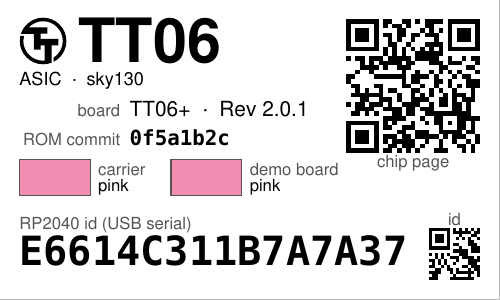
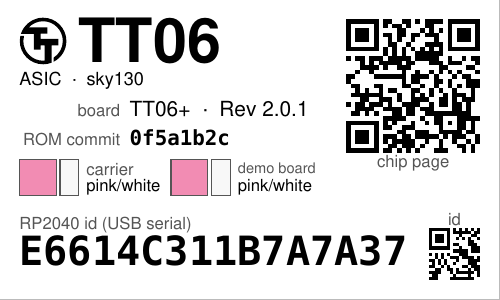
tinytapeout: soldermask and silkscreen swatches, and name who holds the port
Two changes, both from running the module against the real demo boards on
welland.fpgas.online.

The label now carries four colour boxes instead of two: for the chip
carrier and for the demo board, the soldermask in a wide box and the
silkscreen printed on it in a narrow one, in that proportion so no caption
is needed to say which is which, with both colours named beside. The
silkscreen colours were already in the table, taken from the spreadsheet,
but were not drawn. They matter: a TT05 kit is a yellow carrier lettered in
black on a black demo board lettered in white, and the old single box said
"yellow" and "black" as if that were the whole story. A colour that is not
recorded is an empty box struck through, not an "n/a" the eye reads as
type.

Seven of the eight rigs could not read their board: fpgas-tt.service, the
demo-board bridge, holds /dev/ttyACM0 on every rig it drives, so the port
opens EBUSY or the REPL's answers go to the bridge. The module said "not
MicroPython, or busy", which blames the board. It now looks for the process
that has the port open, through the same user's /proc entries, and says so:

  REPL: cannot open /dev/ttyACM0: [Errno 16] Device or resource busy;
  python3 (pid 11559) has the port open

which is the bridge's own main PID. The one rig whose bridge is idle read
its chip ROM in full: TT03p5 on a TT04/TT05 demo board, SDK 1.2.2.

Claude-Session: https://claude.ai/code/session_017ibyTnuBCnNY7ACKAkdRiT

Changed region(s): [[0.39, 0.51, 0.69, 0.66], [0.09, 0.51, 0.33, 0.66]]

diff --git a/src/rpi_hwid/labels.py b/src/rpi_hwid/labels.py
@@ -591,10 +591,9 @@ def draw_usb(lab, dev):
 
 
 def swatch(lab, x, y, w, h, colour):
-    """A colour-identification box: a keyline rectangle filled with the
-    board colour; empty with "n/a" inside when the colour is not recorded.
-    (The silkscreen colour is in the table but not drawn: a white line on
-    pink is too faint at print size to identify anything.)"""
+    """One colour-identification box: a keyline rectangle filled with the
+    colour, or left empty and struck through when it is not recorded. The
+    keyline matters: a white soldermask is a white box on white stock."""
     c = lab.c
     px, py = lab.pt(x, y + h)
     c.setStrokeColor(GREY)
@@ -604,10 +603,20 @@ def swatch(lab, x, y, w, h, colour):
         c.rect(px, py, w, h, stroke=1, fill=1)
     else:
         c.rect(px, py, w, h, stroke=1, fill=0)
-        lab.text(x + w / 2, y + (h - CAPTION * 0.72) / 2, "n/a", SANS, CAPTION,
-                 align="centre", color=GREY)
+        c.line(px, py, px + w, py + h)      # struck through: nothing recorded
     c.setStrokeColor(black)
     c.setFillColor(black)
+
+
+def swatch_pair(lab, x, y, w, h, mask, silk):
+    """A board's two colours side by side: the soldermask in a wide box and
+    the silkscreen printed on it in a narrow one, in that order and in that
+    proportion, so which box is which needs no caption of its own. Returns
+    the width the pair took."""
+    mask_w = w * 0.62
+    swatch(lab, x, y, mask_w, h, mask)
+    swatch(lab, x + mask_w + 0.5 * mm, y, w - mask_w - 0.5 * mm, h, silk)
+    return w
 
 
 def draw_tinytapeout(lab, tt):
@@ -669,21 +678,23 @@ def draw_tinytapeout(lab, tt):
         lab.captioned(x, x + cap_w, y, "ROM", "not read", SANS, 7.5, col_w - cap_w)
     y += row
 
-    # the colour boxes, each with its caption over its colour's name
-    sw, sh = 9 * mm, 4.5 * mm
+    # The colours, so a board can be matched to its label across the bench:
+    # for each of the two boards, its soldermask and the silkscreen printed
+    # on it, with the caption over the two colours named in the same order.
+    sw, sh = 7.5 * mm, 4.5 * mm
     line = CAPTION * 0.72 + 0.6 * mm
-    for i, (cap, colour, name) in enumerate((
-            ("carrier", tt.chip_colour, tt.chip_colour_name),
-            ("demo board", tt.demoboard_colour, tt.demoboard_colour_name))):
+    for i, (cap, mask, silk, names) in enumerate((
+            ("carrier", tt.chip_colour, tt.chip_silk,
+             colour_names(tt.chip_colour_name, tt.chip_silk_name)),
+            ("demo board", tt.demoboard_colour, tt.demoboard_silk,
+             colour_names(tt.demoboard_colour_name, tt.demoboard_silk_name)))):
         sx = x + i * (col_w / 2)
-        swatch(lab, sx, y, sw, sh, colour)
-        if name:
-            ty = y + (sh - 2 * line + 0.6 * mm) / 2
-            lab.text(sx + sw + 1 * mm, ty, cap, SANS, CAPTION, color=GREY)
-            lab.text(sx + sw + 1 * mm, ty + line, name, SANS, CAPTION)
-        else:
-            lab.text(sx + sw + 1 * mm, y + (sh - CAPTION * 0.72) / 2, cap, SANS, CAPTION,
-                     color=GREY)
+        swatch_pair(lab, sx, y, sw, sh, mask, silk)
+        tx2 = sx + sw + 1 * mm
+        tw = col_w / 2 - sw - 1.5 * mm
+        ty = y + (sh - 2 * line + 0.6 * mm) / 2
+        lab.fit(tx2, ty, cap, SANS, CAPTION, tw, min_size=5, color=GREY)
+        lab.fit(tx2, ty + line, names, SANS, CAPTION, tw, min_size=5)
 
 
 
@@ -748,8 +759,12 @@ class TinyTapeoutLabel:
     mcu: str | None = None           # RP2040 | RP2350
     chip_colour: str | None = None   # hex, from the table
     chip_colour_name: str | None = None
+    chip_silk: str | None = None
+    chip_silk_name: str | None = None
     demoboard_colour: str | None = None
     demoboard_colour_name: str | None = None
+    demoboard_silk: str | None = None
+    demoboard_silk_name: str | None = None
 
 
 @dataclass(frozen=True)
@@ -833,6 +848,13 @@ def demoboard_text(detected, version):
     return "  ·  ".join(parts) if parts else "not read"
 
 
+def colour_names(mask, silk):
+    """The two colours of one board, in the order their boxes are drawn."""
+    if mask and silk:
+        return "%s/%s" % (mask, silk)
+    return mask or silk or "not recorded"
+
+
 def tinytapeout_records(docs):
     """One record per Tiny Tapeout demo board across all documents."""
     out = []
@@ -857,8 +879,12 @@ def tinytapeout_records(docs):
                 mcu=b.mcu,
                 chip_colour=tt_data.COLOURS.get(info["chip_colour"] or ""),
                 chip_colour_name=info["chip_colour"],
+                chip_silk=tt_data.COLOURS.get(info["chip_silk"] or ""),
+                chip_silk_name=info["chip_silk"],
                 demoboard_colour=tt_data.COLOURS.get(info["demoboard_colour"] or ""),
                 demoboard_colour_name=info["demoboard_colour"],
+                demoboard_silk=tt_data.COLOURS.get(info["demoboard_silk"] or ""),
+                demoboard_silk_name=info["demoboard_silk"],
             ))
     return out
 

diff --git a/src/rpi_hwid/tinytapeout.py b/src/rpi_hwid/tinytapeout.py
@@ -361,6 +361,26 @@ def open_tty(path):
     return fd
 
 
+def port_holder(tty):
+    """"<command> (pid N)" for a process holding `tty` open, else None.
+
+    Only processes this user owns are readable in /proc, which is the case
+    that matters: a bridge or console service running as the same user is
+    what usually has the port, and it swallows the REPL's answers so the
+    board looks mute. Anything unreadable is skipped, not guessed at.
+    """
+    for proc in glob.glob(ROOT + "/proc/[0-9]*"):
+        try:
+            for fd in glob.glob(proc + "/fd/*"):
+                if os.path.realpath(fd) != tty:
+                    continue
+                comm = read(proc + "/comm") or "?"
+                return "%s (pid %s)" % (comm, os.path.basename(proc))
+        except OSError:
+            continue
+    return None
+
+
 def raw_repl_exec(fd, code, timeout):
     """Run `code` on a MicroPython board over its raw REPL and return
     (stdout, stderr) as text; raises OSError naming the stage that failed.
@@ -393,14 +413,23 @@ def raw_repl_exec(fd, code, timeout):
 def read_repl(tty, timeout=10):
     """Ask the SDK on the board what it holds. Always returns a dict: the
     board's answer (see REPL_SNIPPET), or {"error": why}."""
+    def blamed(what):
+        """`what` went wrong, and who else has the port if anyone does."""
+        holder = port_holder(tty)
+        if holder:
+            return {"error": "%s; %s has the port open" % (what, holder), "holder": holder}
+        return {"error": str(what)}
+
     try:
         fd = open_tty(tty)
     except (OSError, termios.error) as e:      # termios.error is not an OSError
-        return {"error": "cannot open %s: %s" % (tty, e)}
+        # EBUSY here is the usual one: a bridge or console service already
+        # holds the port, often exclusively (pyserial does that by default).
+        return blamed("cannot open %s: %s" % (tty, e))
     try:
         out, err = raw_repl_exec(fd, REPL_SNIPPET, timeout)
     except OSError as e:
-        return {"error": str(e)}
+        return blamed(e)
     finally:
         try:
             os.close(fd)

diff --git a/tests/test_probe_collect.py b/tests/test_probe_collect.py
@@ -417,7 +417,10 @@ def test_read_repl_never_hangs():
     finally:
         os.close(slave)
         os.close(master)
-    assert r == {"error": "no raw REPL prompt (not MicroPython, or busy)"}
+    # the pty's other end is this very process, so the holder is named too
+    assert r["error"].startswith("no raw REPL prompt (not MicroPython, or busy)")
+    assert "has the port open" in r["error"]
+    assert r["holder"].endswith(f"(pid {os.getpid()})")
     assert tinytapeout.read_repl("/nonexistent/ttyACM9", timeout=1)["error"].startswith(
         "cannot open /nonexistent/ttyACM9")
     assert tinytapeout.read_repl("/dev/null", timeout=1)["error"].startswith("cannot open")
@@ -442,7 +445,7 @@ def test_read_repl_survives_termios_error_and_a_stalled_write(monkeypatch):
     finally:
         os.close(slave)
         os.close(master)
-    assert r == {"error": "timed out writing to the board"}
+    assert r["error"].startswith("timed out writing to the board")
 
 
 def test_read_repl_reports_a_traceback_and_junk(monkeypatch):

diff --git a/README.md b/README.md
@@ -228,9 +228,10 @@ $ rpi-hwid tinytapeout             # a Pi 4 with a TT06 dev kit on USB
   tt     : TT06 on demo board TT06+ (Tiny Tapeout SDK 2.0.4 on Raspberry Pi Pico with RP2040 (USB 1-1.2); chip ROM shuttle=tt06; demo board TT06+)
 ```
 
-The module also carries a table of what the board cannot say: the chip carrier and
-demo board colours per shuttle, the demo board revision that shipped with each
-kit, and the chip's page on tinytapeout.com, for the label.
+The module also carries a table of what the board cannot say: the soldermask and
+silkscreen colours of both the chip carrier and the demo board for each shuttle,
+the demo board revision that shipped with each kit, and the chip's page on
+tinytapeout.com, for the label.
 
 ## Collecting a fleet
 
@@ -413,11 +414,15 @@ and a line to write the DNA on when it has not been read yet.
 
 The shuttle is the headline, with ASIC or FPGA breakout and the PDK under it; then
 the demo board as the SDK detected it with the revision that shipped in that kit,
-and the chip ROM's commit. The two colour boxes are the chip carrier's and the demo
-board's colours, named beside each, so the right board is picked out of a drawer
-(an empty box marked n/a where the colour is not recorded). The large QR opens the
-chip's page on tinytapeout.com; the demo board's RP2 unique id — its USB serial —
-runs along the foot with a small QR of its own.
+and the chip ROM's commit. Then four colour boxes, so the right board is picked
+out of a drawer: for the chip carrier and for the demo board, a wide box in the
+board's soldermask and a narrow one in the silkscreen printed on it, in that
+proportion so no caption is needed to tell them apart, with both colours named
+beside. A TT05 kit, say, is a yellow carrier lettered in black on a black demo
+board lettered in white. A box is left empty and struck through where the colour
+is not recorded. The large QR opens the chip's page on tinytapeout.com; the demo
+board's RP2 unique id — its USB serial — runs along the foot with a small QR of
+its own.
 
 <p>
 <img src="https://raw.githubusercontent.com/mithro/rpi-hwid/main/docs/examples/tinytapeout.png" alt="TT06 chip on a TT06+ demo board" width="49%">
